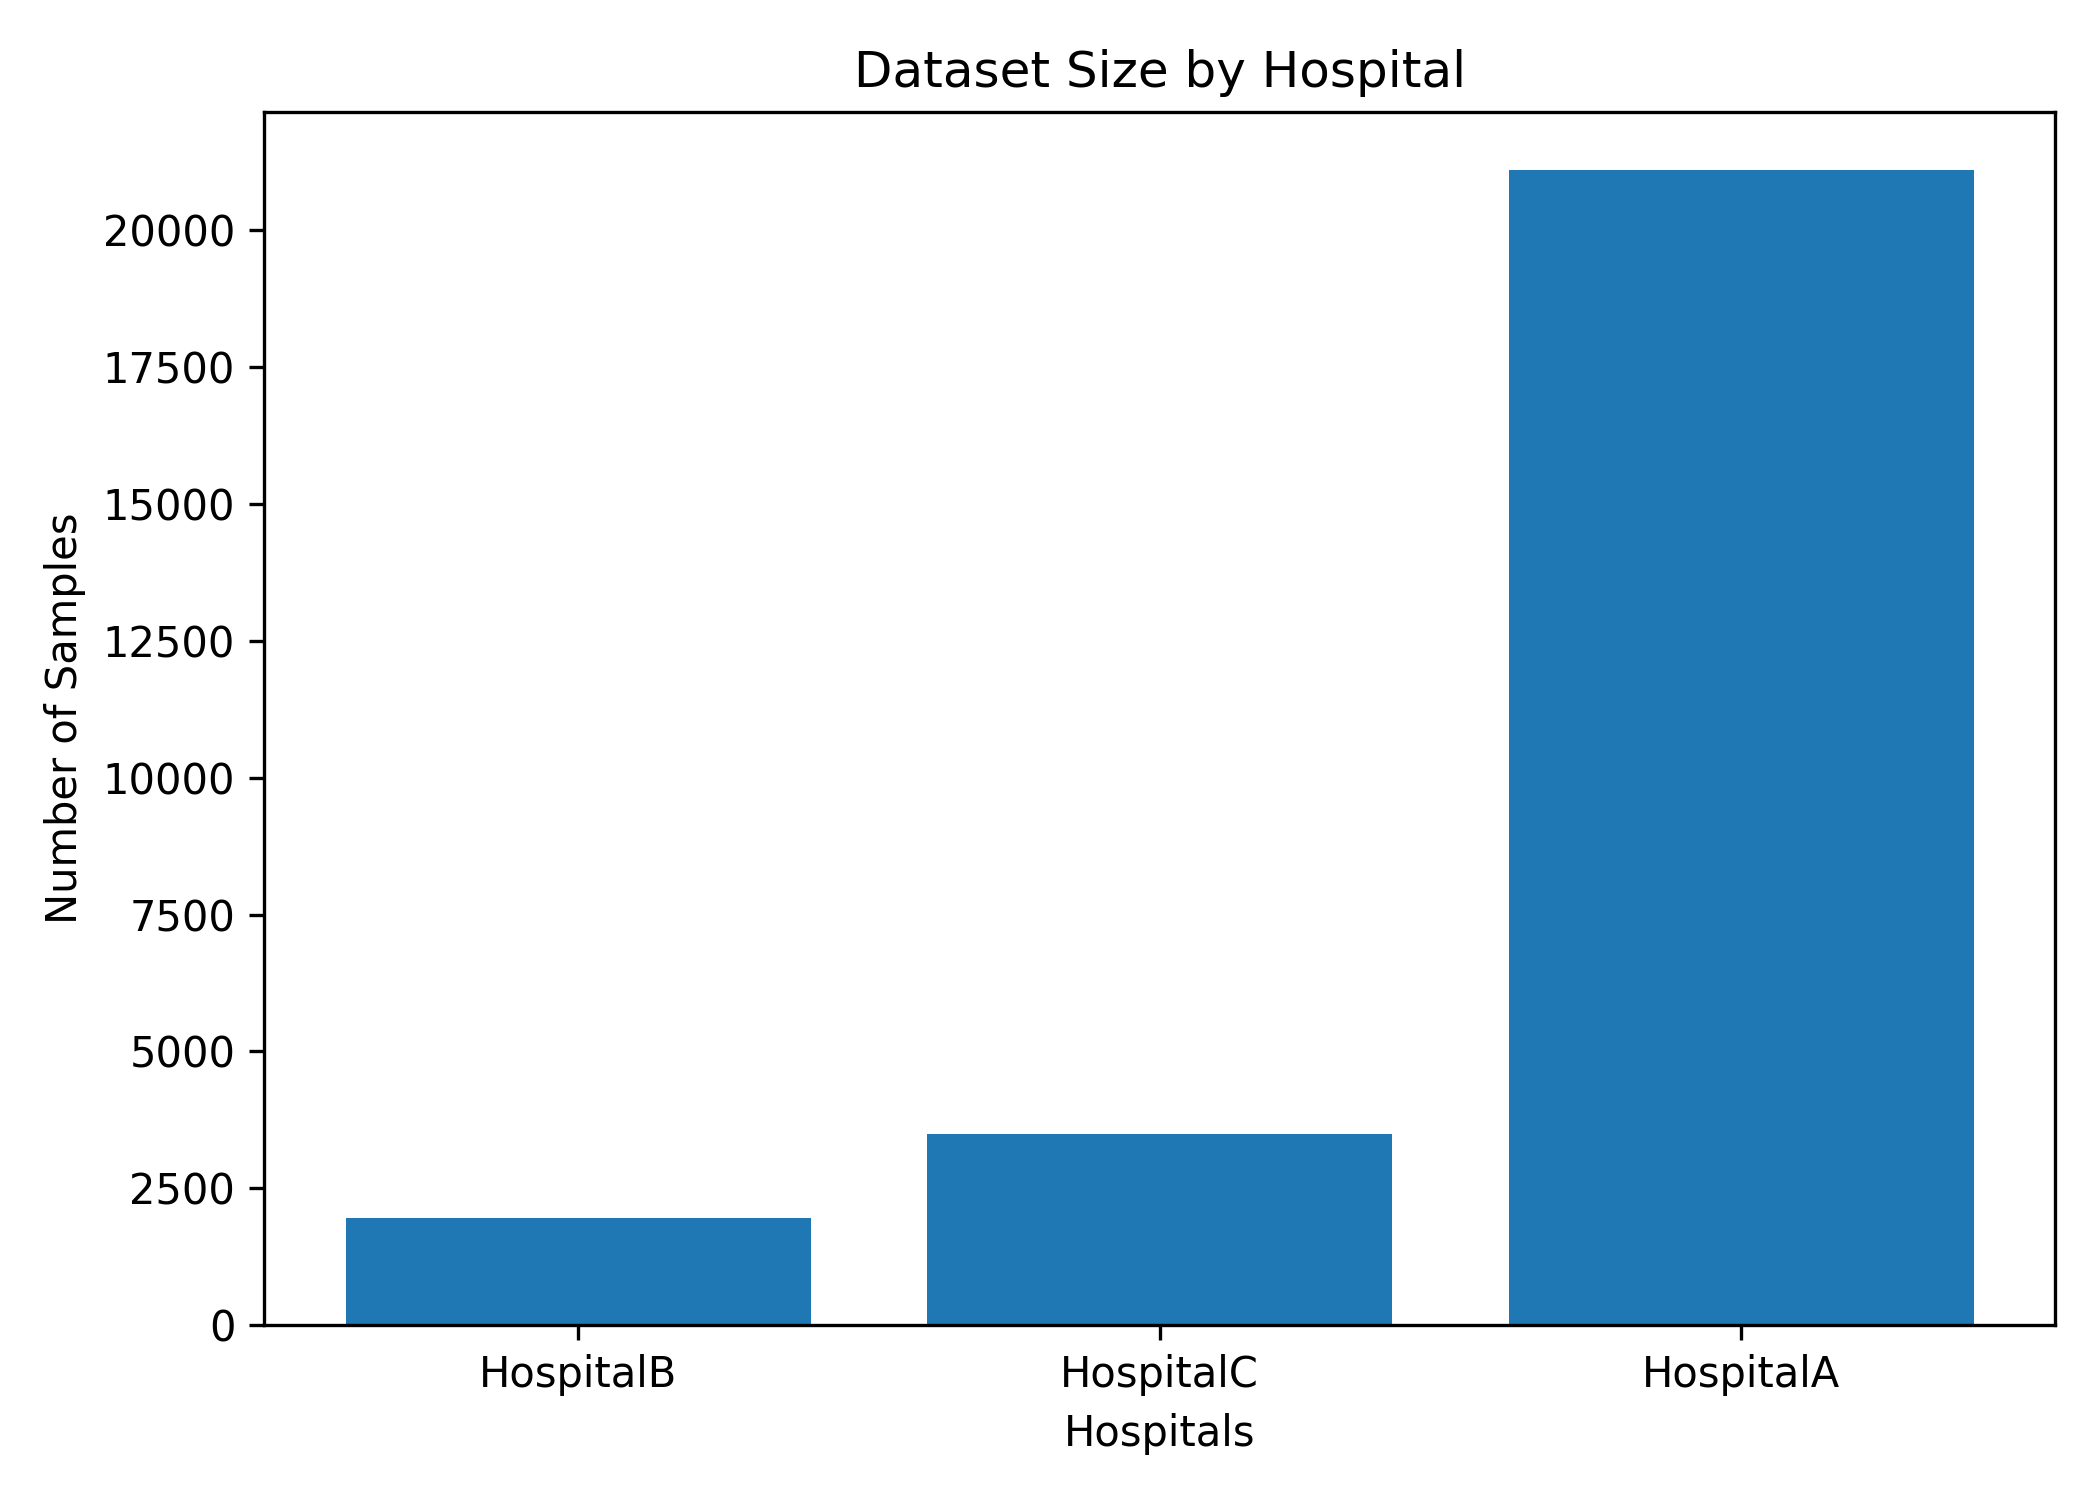
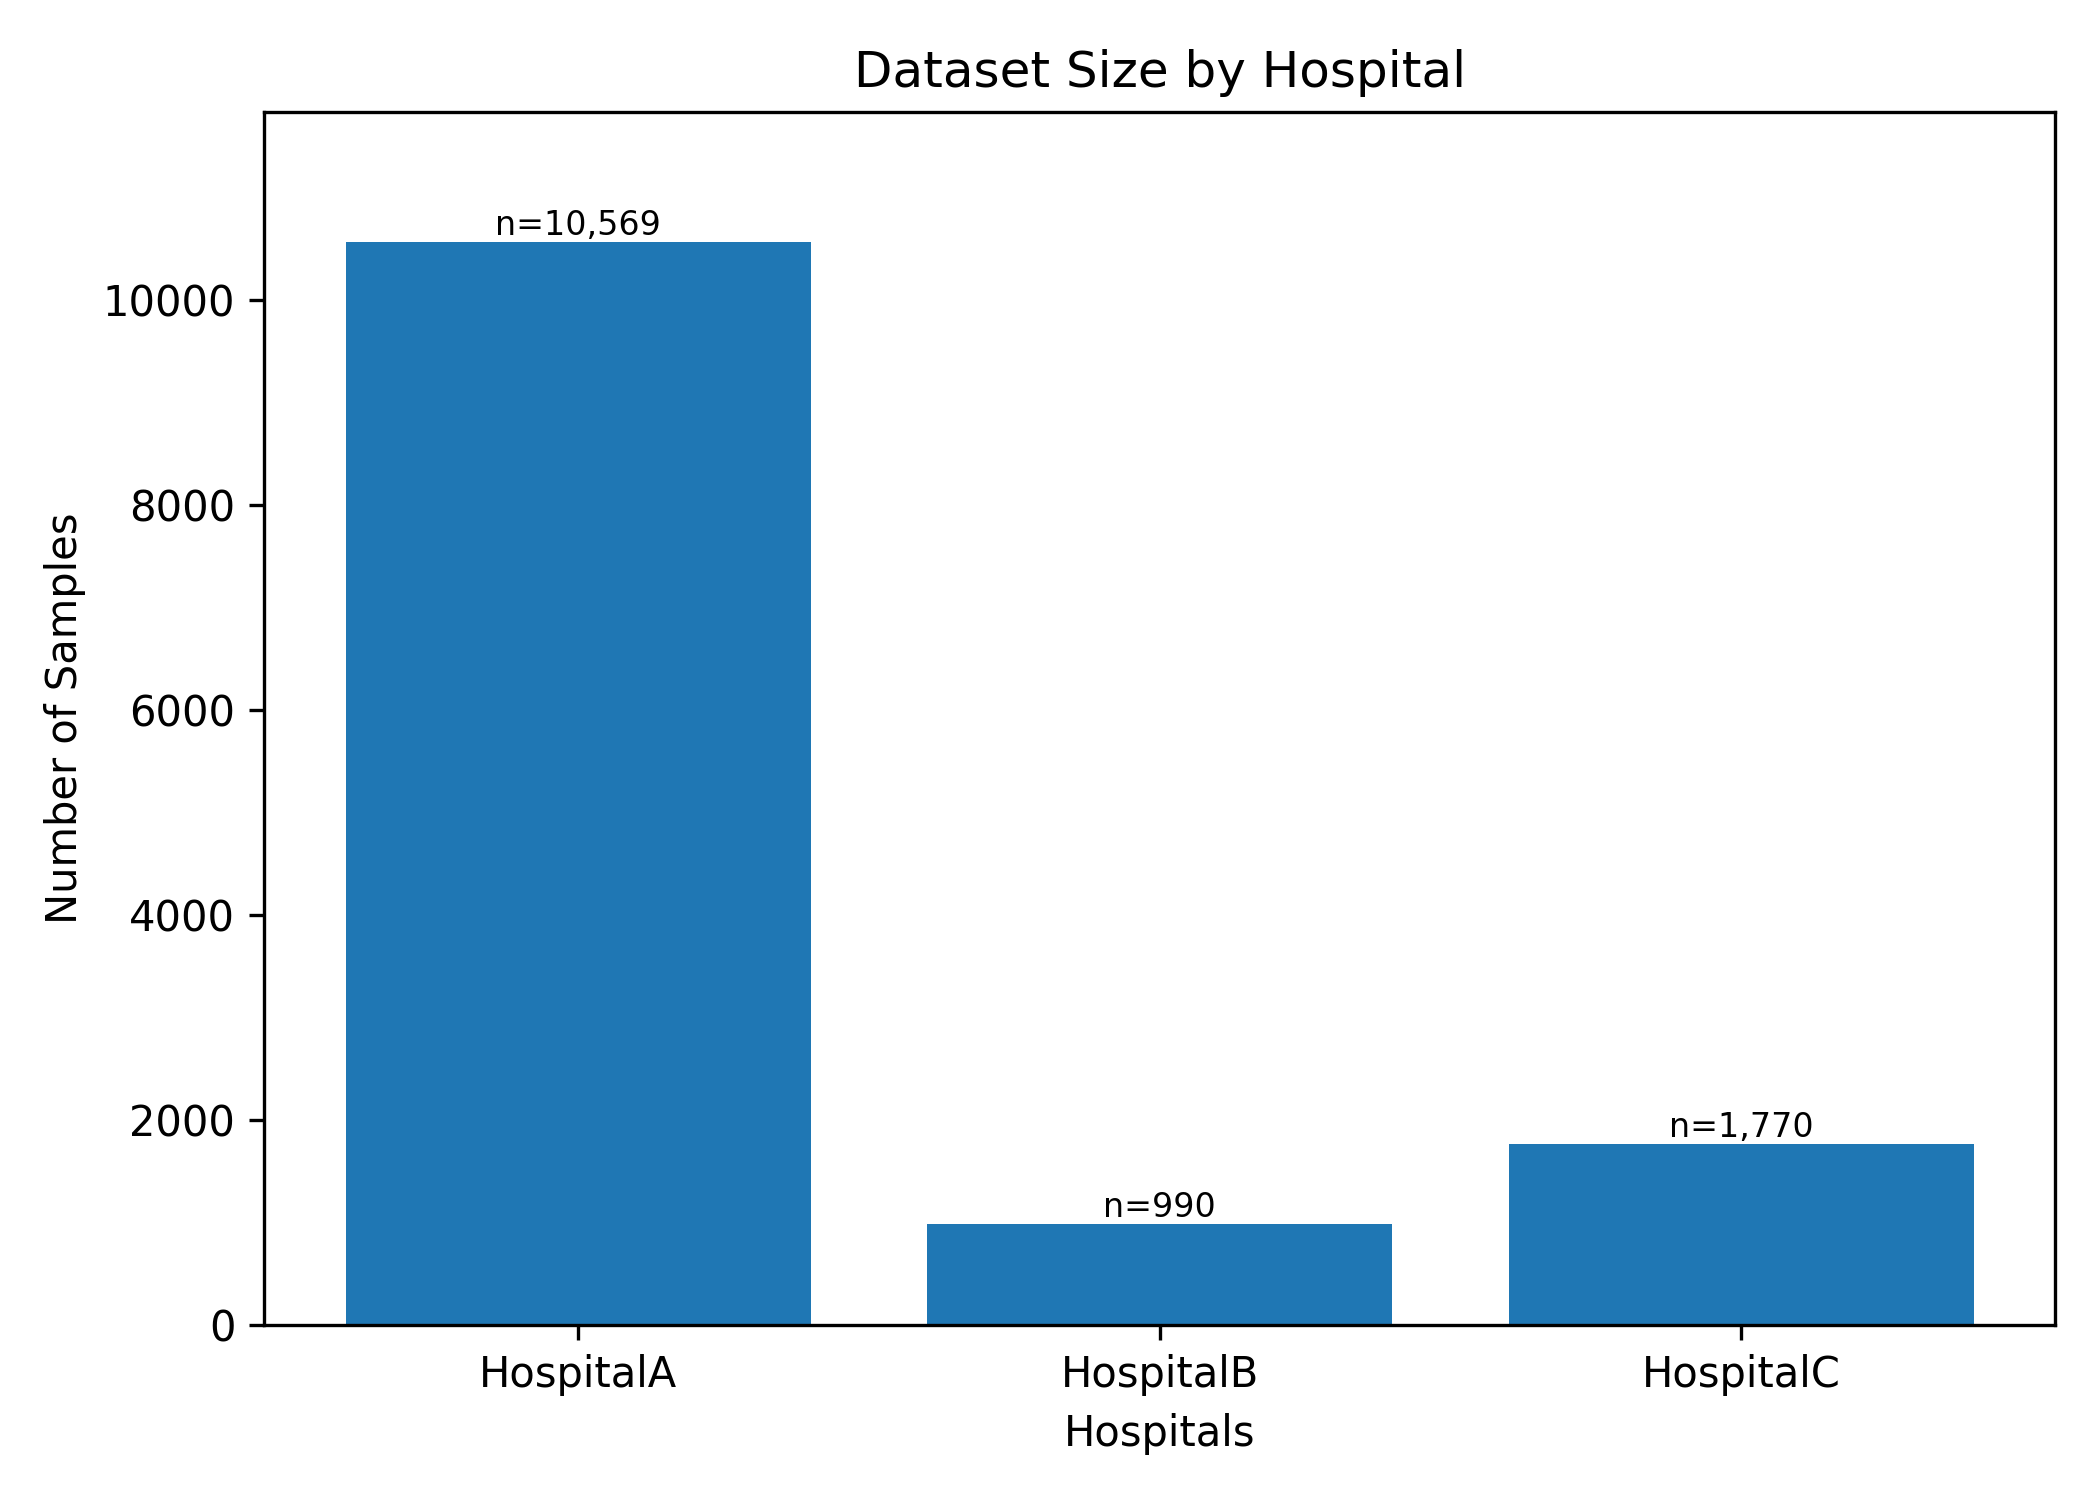
Document hospital dataset sizes

diff --git a/client/client_app.py b/client/client_app.py
@@ -412,10 +412,20 @@ def plot_dataset_sizes_by_hospital():
     ]
 
     plt.figure(figsize=(7, 5))
-    plt.bar(hospitals, totals)
+    bars = plt.bar(hospitals, totals)
+    for bar, total in zip(bars, totals):
+        plt.text(
+            bar.get_x() + bar.get_width() / 2,
+            bar.get_height(),
+            f"n={total:,}",
+            ha="center",
+            va="bottom",
+            fontsize=8,
+        )
     plt.xlabel("Hospitals")
     plt.ylabel("Number of Samples")
     plt.title("Dataset Size by Hospital")
+    plt.ylim(0, max(totals) * 1.12)
     plt.tight_layout()
     plt.savefig(out / "dataset_sizes_by_hospital.png", dpi=300)
     plt.close()

diff --git a/README.md b/README.md
@@ -662,6 +662,14 @@ The system saves numerical and visual outputs under `results/`.
 
 ### Dataset and contribution figures
 
+The dataset-size figure uses the cleaned local records for each participating hospital:
+
+| Hospital | Cleaned records used |
+|---|---:|
+| Hospital A | 10,569 |
+| Hospital B | 990 |
+| Hospital C | 1,770 |
+
 ![Dataset size by hospital](results/global/dataset_sizes_by_hospital.png)
 
 ![Federated weights](results/global/federated_weights.png)
